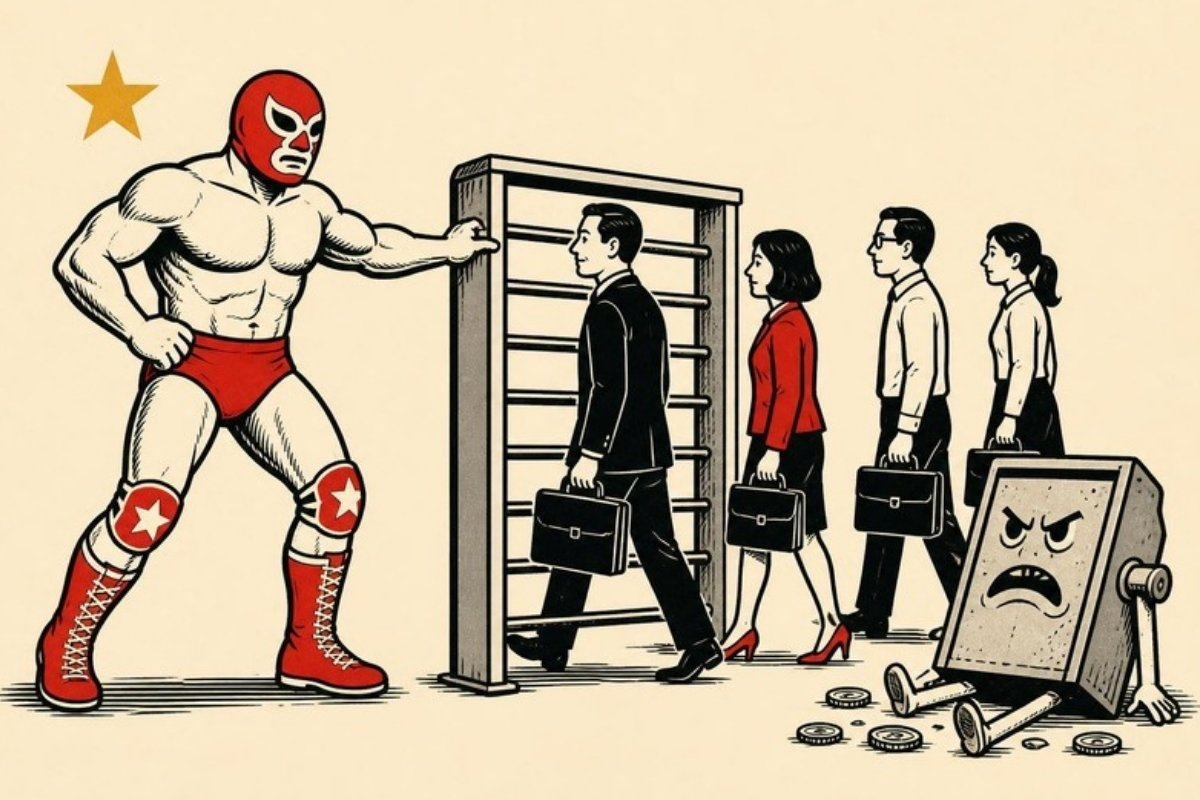
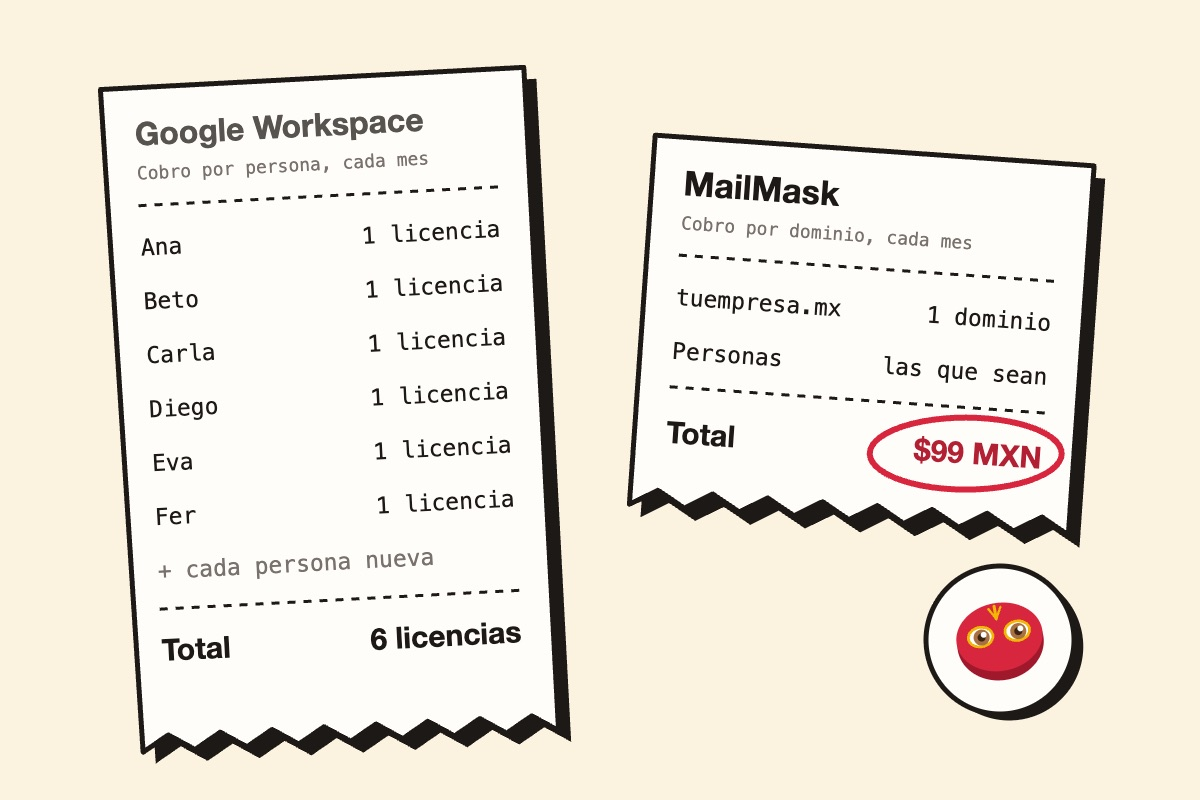
Hero de /alternativa-google-workspace literal; la app recibe el dominio de la landing
- La ilustración del luchador y el torniquete no se entendía: ahora son dos recibos,
  el de Google con una licencia por persona y el de MailMask con un cobro por dominio.
  Plantilla en scripts/il-alternativa-google-workspace.html.
- /register guarda ?dominio= y la app abre «Agregar dominio» ya con el dominio que
  la persona escribió en /correo-en-tu-dominio, una sola vez.

diff --git a/scripts/il-alternativa-google-workspace.html b/scripts/il-alternativa-google-workspace.html
@@ -1,0 +1,78 @@
+<!DOCTYPE html>
+<!--
+  Ilustración del hero de /alternativa-google-workspace (public/img/alternativa-google-workspace-il.jpg, 1200×800).
+  Reemplaza la del luchador y el torniquete (21-oct-2026: «no tiene sentido»): ahora es literal,
+  dos recibos. Se renderiza con Chrome headless a PNG y se pasa a JPEG (< 200 KB, lo exige landings-hero.test.ts):
+    Chrome --headless=new --window-size=1200,800 --screenshot=il.png file://…/scripts/il-alternativa-google-workspace.html
+    sips -s format jpeg -s formatOptions 80 il.png --out public/img/alternativa-google-workspace-il.jpg
+  Sin precios de Google: la página los cita con fuente y fecha, no los copia.
+-->
+<html lang="es-MX">
+<head>
+<meta charset="UTF-8">
+<title>il-alternativa-google-workspace</title>
+<style>
+  * { margin: 0; box-sizing: border-box; }
+  html, body { width: 1200px; height: 800px; overflow: hidden; background: #fbf3e0; }
+  svg { display: block; }
+  .t { font-family: "Helvetica Neue", Helvetica, Arial, sans-serif; }
+  .m { font-family: Menlo, "SF Mono", monospace; }
+</style>
+</head>
+<body>
+<svg width="1200" height="800" viewBox="0 0 1200 800">
+  <!-- Recibo largo: una línea por persona -->
+  <g transform="rotate(-3 330 420)">
+    <path d="M118 78 H542 V742 l-26 -16 l-26 16 l-26 -16 l-26 16 l-26 -16 l-26 16 l-26 -16 l-26 16 l-26 -16 l-26 16 l-26 -16 l-26 16 l-26 -16 l-26 16 l-26 -16 l-26 16 Z" fill="#1c1917" transform="translate(12 12)"/>
+    <path d="M118 78 H542 V742 l-26 -16 l-26 16 l-26 -16 l-26 16 l-26 -16 l-26 16 l-26 -16 l-26 16 l-26 -16 l-26 16 l-26 -16 l-26 16 l-26 -16 l-26 16 l-26 -16 l-26 16 Z" fill="#fffdf9" stroke="#1c1917" stroke-width="5" stroke-linejoin="round"/>
+    <text x="150" y="136" class="t" font-size="32" font-weight="800" fill="#57534e">Google Workspace</text>
+    <text x="150" y="170" class="m" font-size="18" fill="#78716c">Cobro por persona, cada mes</text>
+    <path d="M150 196 H510" stroke="#1c1917" stroke-width="3" stroke-dasharray="8 8"/>
+    <g class="m" font-size="23" fill="#1c1917">
+      <text x="150" y="246">Ana</text><text x="510" y="246" text-anchor="end">1 licencia</text>
+      <text x="150" y="300">Beto</text><text x="510" y="300" text-anchor="end">1 licencia</text>
+      <text x="150" y="354">Carla</text><text x="510" y="354" text-anchor="end">1 licencia</text>
+      <text x="150" y="408">Diego</text><text x="510" y="408" text-anchor="end">1 licencia</text>
+      <text x="150" y="462">Eva</text><text x="510" y="462" text-anchor="end">1 licencia</text>
+      <text x="150" y="516">Fer</text><text x="510" y="516" text-anchor="end">1 licencia</text>
+      <text x="150" y="570" fill="#78716c">+ cada persona nueva</text>
+    </g>
+    <path d="M150 600 H510" stroke="#1c1917" stroke-width="3" stroke-dasharray="8 8"/>
+    <text x="150" y="652" class="t" font-size="30" font-weight="800" fill="#1c1917">Total</text>
+    <text x="510" y="652" class="t" font-size="30" font-weight="800" fill="#1c1917" text-anchor="end">6 licencias</text>
+  </g>
+
+  <!-- Recibo corto: un cobro por dominio -->
+  <g transform="rotate(4 860 360)">
+    <path d="M640 150 H1080 V520 l-27.5 -16 l-27.5 16 l-27.5 -16 l-27.5 16 l-27.5 -16 l-27.5 16 l-27.5 -16 l-27.5 16 l-27.5 -16 l-27.5 16 l-27.5 -16 l-27.5 16 l-27.5 -16 l-27.5 16 l-27.5 -16 l-27.5 16 Z" fill="#1c1917" transform="translate(12 12)"/>
+    <path d="M640 150 H1080 V520 l-27.5 -16 l-27.5 16 l-27.5 -16 l-27.5 16 l-27.5 -16 l-27.5 16 l-27.5 -16 l-27.5 16 l-27.5 -16 l-27.5 16 l-27.5 -16 l-27.5 16 l-27.5 -16 l-27.5 16 l-27.5 -16 l-27.5 16 Z" fill="#fffdf9" stroke="#1c1917" stroke-width="5" stroke-linejoin="round"/>
+    <text x="672" y="208" class="t" font-size="34" font-weight="800" fill="#1c1917">MailMask</text>
+    <text x="672" y="242" class="m" font-size="18" fill="#78716c">Cobro por dominio, cada mes</text>
+    <path d="M672 268 H1048" stroke="#1c1917" stroke-width="3" stroke-dasharray="8 8"/>
+    <g class="m" font-size="23" fill="#1c1917">
+      <text x="672" y="318">tuempresa.mx</text><text x="1048" y="318" text-anchor="end">1 dominio</text>
+      <text x="672" y="372">Personas</text><text x="1048" y="372" text-anchor="end">las que sean</text>
+    </g>
+    <path d="M672 400 H1048" stroke="#1c1917" stroke-width="3" stroke-dasharray="8 8"/>
+    <text x="672" y="456" class="t" font-size="30" font-weight="800" fill="#1c1917">Total</text>
+    <text x="1048" y="456" class="t" font-size="30" font-weight="800" fill="#b31f33" text-anchor="end">$99 MXN</text>
+    <!-- plumón rojo encerrando el total -->
+    <ellipse cx="972" cy="446" rx="96" ry="36" fill="none" stroke="#d7263d" stroke-width="6" transform="rotate(-4 972 446)"/>
+  </g>
+
+  <!-- Sello de la máscara oficial -->
+  <g transform="rotate(-10 1000 640)">
+    <circle cx="1000" cy="640" r="74" fill="#1c1917" transform="translate(8 8)"/>
+    <circle cx="1000" cy="640" r="74" fill="#fffdf9" stroke="#1c1917" stroke-width="5"/>
+    <g transform="translate(938 578) scale(1.55)">
+      <ellipse cx="40" cy="42" rx="28" ry="24" fill="#a0182c"/><ellipse cx="40" cy="38" rx="28" ry="22" fill="#d7263d"/>
+      <ellipse cx="28" cy="36" rx="8" ry="6.3" fill="#fff" stroke="#f2b705" stroke-width="1.8"/><ellipse cx="52" cy="36" rx="8" ry="6.3" fill="#fff" stroke="#f2b705" stroke-width="1.8"/>
+      <circle cx="28.6" cy="36.4" r="5.2" fill="#a97142"/><circle cx="52.6" cy="36.4" r="5.2" fill="#a97142"/>
+      <circle cx="28.6" cy="36.4" r="2.6" fill="#3b2412"/><circle cx="52.6" cy="36.4" r="2.6" fill="#3b2412"/>
+      <circle cx="30.2" cy="34.9" r="1.9" fill="#fff"/><circle cx="54.2" cy="34.9" r="1.9" fill="#fff"/>
+      <path d="M40 18 L40 26" stroke="#f2b705" stroke-width="2" stroke-linecap="round"/><path d="M36 19 L40 26 L44 19" stroke="#f2b705" stroke-width="1.5" fill="none" stroke-linecap="round"/>
+    </g>
+  </g>
+</svg>
+</body>
+</html>

diff --git a/public/js/app.js b/public/js/app.js
@@ -1249,6 +1249,24 @@ async function deleteDomain() {
   goBack();
   await loadDomains();
   await refreshUsage();
+  openDomainFromLanding();
+}
+
+// La landing /correo-en-tu-dominio guarda el dominio que escribió la persona (y lo pasa en
+// ?dominio=): al llegar a la app se abre "Agregar dominio" ya con él, una sola vez.
+function openDomainFromLanding() {
+  let wanted = new URLSearchParams(location.search).get("dominio") || "";
+  try {
+    wanted = wanted || localStorage.getItem("mailmask_dominio") || "";
+    localStorage.removeItem("mailmask_dominio");
+  } catch {}
+  wanted = wanted.trim().toLowerCase();
+  if (!/^([a-z0-9-]+\.)+[a-z]{2,24}$/.test(wanted)) return;
+  if (domains.some((d) => d.domain === wanted)) return;
+  showAddDomainModal();
+  const input = document.getElementById("add-domain-input");
+  if (input) input.value = wanted;
+  searchDomainAvailability();
 }
 
 // --- Domain Registration (Route 53) ---

diff --git a/public/alternativa-google-workspace.html b/public/alternativa-google-workspace.html
@@ -195,7 +195,7 @@
           </p>
         </div>
         <figure class="hero-il">
-          <img src="/img/alternativa-google-workspace-il.jpg" alt="Un luchador enmascarado detiene abierta la puerta de un torniquete mientras cuatro oficinistas con portafolios pasan sin pagar, y la alcancía que cobraba por persona queda derrotada en el piso" width="1200" height="800" fetchpriority="high" />
+          <img src="/img/alternativa-google-workspace-il.jpg" alt="Dos recibos: el de Google Workspace, largo, cobra una licencia por cada persona; el de MailMask, corto, cobra $99 MXN por el dominio con las personas que sean, sellado con la máscara" width="1200" height="800" fetchpriority="high" />
         </figure>
       </div>
     </section>

diff --git a/public/js/register.js b/public/js/register.js
@@ -16,6 +16,12 @@ function leerUtm() {
   return utm.source || utm.medium || utm.campaign ? utm : undefined;
 }
 
+// El dominio que escribió en /correo-en-tu-dominio: la app abre "Agregar dominio" con él.
+const _dominioParam = new URLSearchParams(location.search).get("dominio");
+if (_dominioParam) {
+  try { localStorage.setItem("mailmask_dominio", _dominioParam); } catch {}
+}
+
 const _refParam = new URLSearchParams(location.search).get("ref");
 if (_refParam) {
   localStorage.setItem("mailmask_ref", _refParam);
